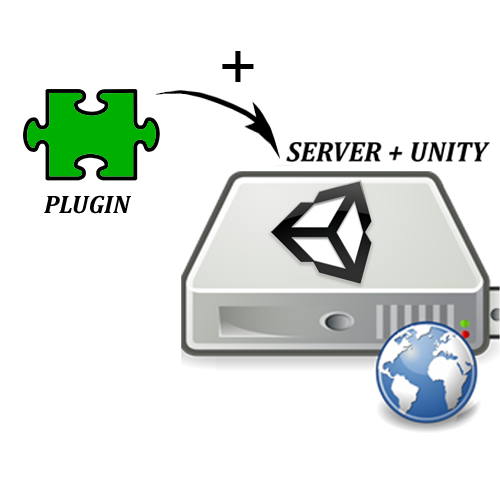
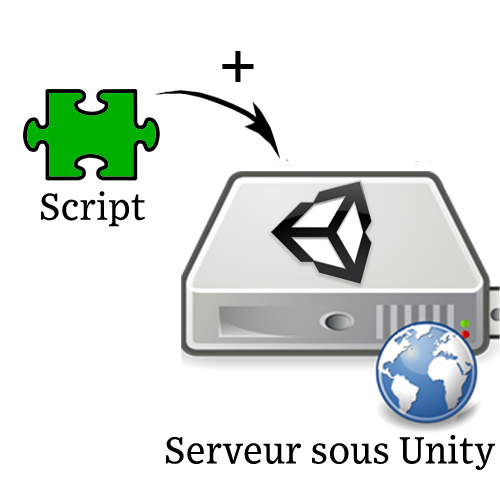
partie réseau diapo

Changed region(s): [[0.33, 0.87, 0.99, 0.93], [0.57, 0.27, 0.99, 0.33], [0.06, 0.36, 0.3, 0.45]]

diff --git a/Diapo/Diapo_EtudePratique.tex b/Diapo/Diapo_EtudePratique.tex
@@ -320,101 +320,38 @@
 				\end{tabular}
 			\end{frame}
 			
-	\section{Network}
+	\section{Envoi des données}
 			
-			\begin{frame}{Network}
-				\centerline{\includegraphics[height=150pt]{images/network/network.png}}
+			\begin{frame}{Envoi des données}
+				\centerline{\includegraphics[height=120pt]{images/network/sending_model2.png}}
 			\end{frame}
 			
-		\subsection{How will it work?}
-		
-			\begin{frame}{What is already set up ?}
-					\centerline{\includegraphics[height=100pt]{images/network/server.png}
-					\pause
-					\includegraphics[height=200pt]{images/network/scenebefore.png}}
-			\end{frame}
-			
-			\begin{frame}{The purpose: sending the model}
-				\centerline{\includegraphics[height=150pt]{images/network/sending_model.png}}
-			\end{frame}
-			
-			\begin{frame}{The purpose: catching the model}
-				\includegraphics[height=125pt]{images/network/scenebefore.png}
-				\includegraphics[height=50pt]{images/network/arrow.png}
-				\includegraphics[height=125pt]{images/network/scene.png}
-			\end{frame}
-			
-		\subsection{In the server}
-			\begin{frame}{Plugin}
+		\subsection{Côté serveur}
+			\begin{frame}{Ajout d'un script}
 				\centerline{\includegraphics[height=150pt]{images/network/plugin.png}}
 				\begin{itemize}	
-					\item Little plugin
-					\item Allow the server to receive data
-					\item Integrated in the 3D scene
+					\item Léger
+					\item Reçoit les données
+					\item Intégré dans la scène 3D
+					\item Affiche l'objet
 				\end{itemize}	
 											
 			\end{frame}
 			
-		\subsection{In the tablet}
-			
-			\begin{frame}{External Application}
-				\begin{multicols}{2}
-					
-					\begin{itemize}
-						\item Use resources
-					\end{itemize}
-					\includegraphics[height=100pt]{images/network/CPU_resources.jpg}
-					\pause
-					\columnbreak	
-					
-					\begin{itemize}
-						\item Too complex to set up /
-						
-						 to use
-					\end{itemize}
-					\includegraphics[height=100pt]{images/network/complex.png}					
-				\end{multicols}	
-			\end{frame}
+		\subsection{Côté client}
 		
-			\begin{frame}{What Protocol to use ?}
-					\begin{multicols}{2}
-						HTTP:
-						\begin{itemize}
-							\item Use: Get data from a server
-							\item Problem: Only post specific files to a server
-						\end{itemize}
-						\pause
-						
-						\includegraphics[height=135pt]{images/network/nmft.png}
-						\pause
-						
-						\columnbreak
-						FTP:
-						\begin{itemize}
-							\item Use: Send files to a server
-							\item Problem: Too complex for the user
-						\end{itemize}
-						\pause
-						
-						\includegraphics[height=135pt]{images/network/classicnet.png}
-					\end{multicols}
-					
+			\begin{frame}{Socket TCP}
+				\centerline{\includegraphics[height=120pt]{images/network/tcp-socket.png}}
+				
+				\begin{itemize}
+					\item Dispose de classes prévues à cet effet en C\#
+					\item Documentée en C\# par Microsoft
+					\item Permet d'envoyer des octets, donc flexible
+				\end{itemize}
 			\end{frame}
 			
-		\begin{frame}{Unity Assets}
-			\begin{itemize}
-				\item Unity Assets : looks like Java Classes
-				\item Well implemented
-				\item Documentation available
-				\pause
-				\item \textbf{\underline{Facilitate Unity to Unity Networking}}
-				\pause
-			\end{itemize}
-			\centerline{\includegraphics[height=75pt]{images/network/easier.png}}
-		\end{frame}
-		
-		
-
+			
+	
 	
 	\section{Conclusion}
 	
